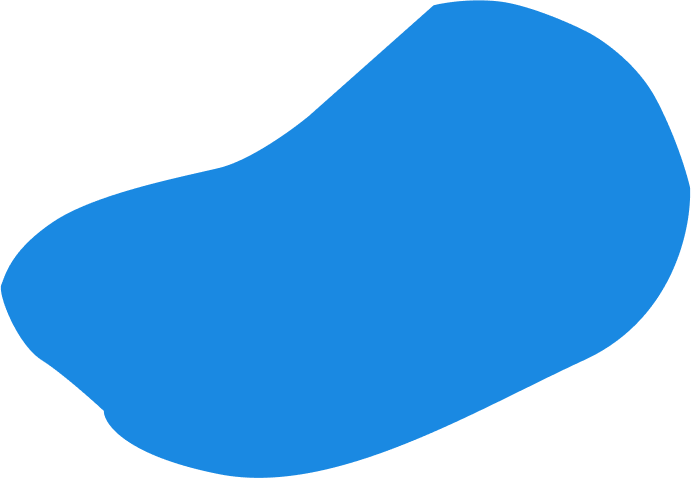
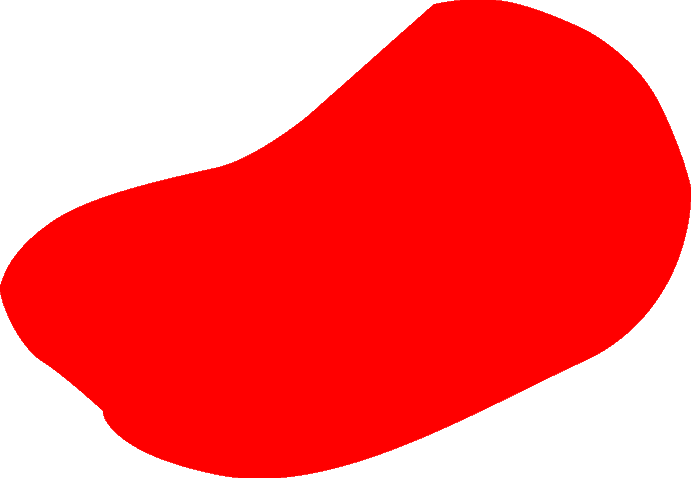
8-intro kinda done& responsives %50

diff --git a/src/components/Works/Works.css b/src/components/Works/Works.css
@@ -60,8 +60,8 @@
   left: 10.5rem;
 }
 .w-mainCircle > :nth-child(2) {
-  left: -3rem;
-  top: 5rem;
+  left: -2rem;
+  top: 4rem;
 }
 .w-mainCircle > :nth-child(3) {
   left: 6rem;
@@ -72,16 +72,20 @@
   top: 5rem;
 }
 .w-mainCircle > :nth-child(5) {
-  left: 10.5rem;
-  top: 14rem;
+  left: 11.5rem;
+  top: 12rem;
 }
 .w-mainCircle > :nth-child(6) {
-  left: 1.5rem;
-  top: -2rem;
+  left: 2.8rem;
+  top: -2.3rem;
 }
 .w-mainCircle > :nth-child(7) {
-  left: 1.5rem;
-  top: 14rem;
+  left:-1rem;
+  top: 11rem;
+}
+.w-mainCircle > :nth-child(8) {
+  left: 5rem;
+  top: 14.6rem;
 }
 
 /*ikinci circle*/
@@ -129,12 +133,12 @@
     z-index: -1;
 }
 .blueCircle{
-    background: #1949B8;
+    background: #FF0000;
     left: 18rem;
     top:0rem;
 }
 .yellowCircle{
-    background: #F5C32C;
+    background: #001A72;
     left: 18rem;
     top:8rem;
 }

diff --git a/src/components/Intro/Intro.css b/src/components/Intro/Intro.css
@@ -1,12 +1,13 @@
 .t-wrapper {
-  padding: 0 3rem 0 3rem;
-  height: 100vh;
+  padding: 0 2rem 0 2rem;
+  height: 150vh;
+  width: 100%;
   display: flex;
   align-items: center;
   justify-content: center;
-  margin-top: 7rem;
+  margin-top: 0rem;
   flex-direction: column;
-  gap: 2rem;
+  gap: 1rem;
   position: relative;
 }
 .t-heading {
@@ -29,17 +30,17 @@
   left: 0;
 }
 .testimonial {
+  margin-top: -9rem;
   display: flex;
   flex-direction: column;
   align-items: center;
   justify-content: space-evenly;
   padding: 2rem;
-  width: 30rem;
-  height: 12rem;
+  height: 28rem;
   background: rgba(255, 255, 255, 0.26);
-  border: 7px solid var(--blueCard);
+  border: 3px solid var(--purple1);
   box-shadow: var(--boxShadow);
-  border-radius: 20px;
+  border-radius: 2px;
 }
 .testimonial > img {
   width: 6rem;

diff --git a/src/components/Works/Works.jsx b/src/components/Works/Works.jsx
@@ -70,6 +70,9 @@ const Works = () => {
           <div className="w-secCircle">
             <img src={Tool6} alt="" />
           </div>
+          <div className="w-secCircle">
+            <img src={Tool7} alt="" />
+          </div>
         </motion.div>
         {/*arkaplan circle'ları*/}
         <div className="w-backCircle blueCircle"></div>

diff --git a/src/components/Card/Card.css b/src/components/Card/Card.css
@@ -7,7 +7,7 @@
     gap: 1rem;
     align-items: center;
     text-align: center;
-    background: rgba(255, 255, 255, 0.26);
+    background: rgb(255, 255, 255);
     border: 7px solid var(--purpleCard);
     box-shadow: var(--boxShadow);
     border-radius: 20px;
